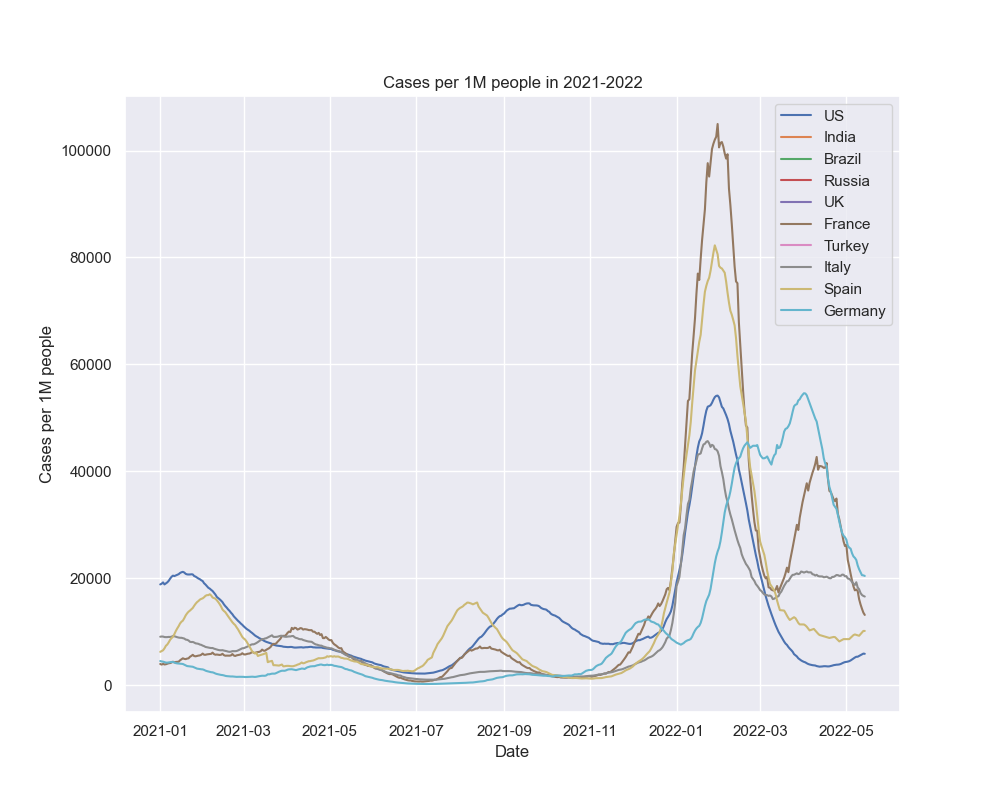
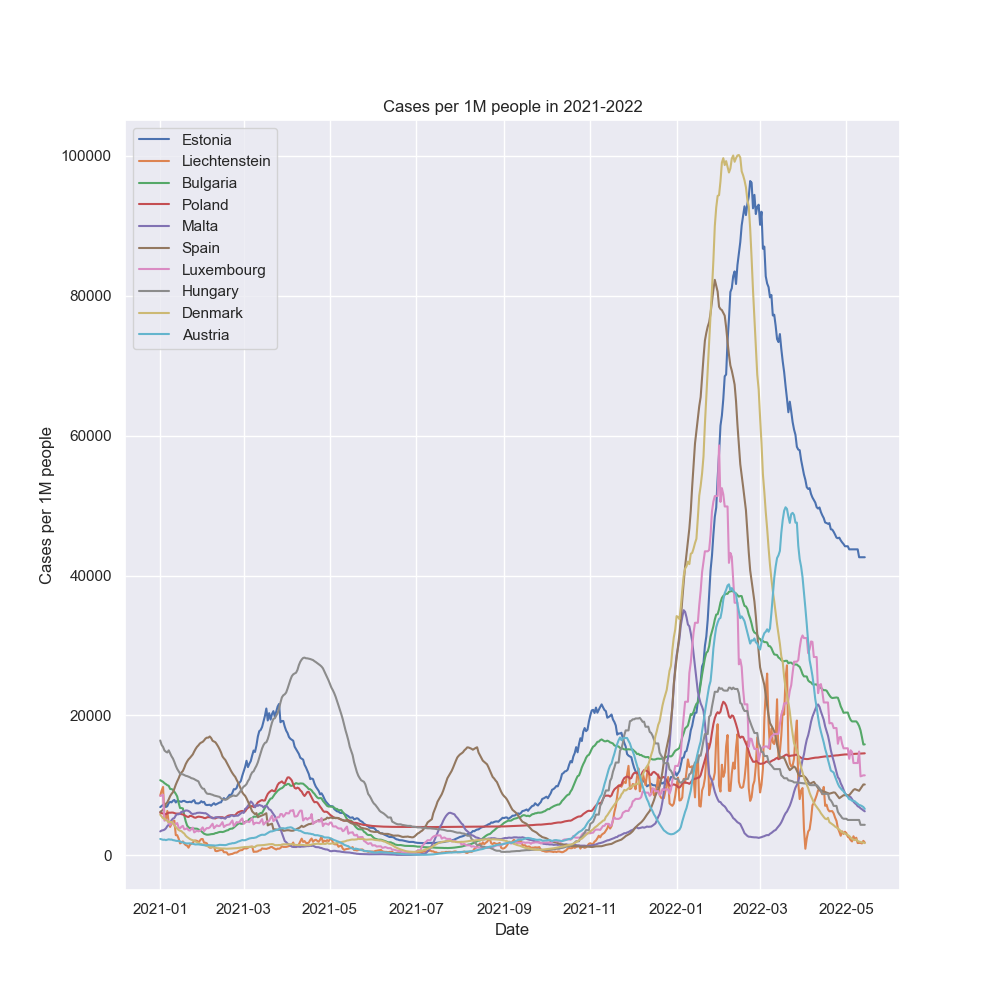
finished vaccine

diff --git a/Midterm_Project/Vaccine3.py b/Midterm_Project/Vaccine3.py
@@ -30,13 +30,9 @@ max_countries_two = mv['location'].unique()
 max_countries_three = cases['Country'].unique()
 
 
-check = cases[cases['Country'].isin(max_countries_one) & cases['Country'].isin(max_countries_two)]
-temp = check.groupby('Country')['Active_cases'].sum()
-max_countries_four = check[(check['Active_cases'] != '') & (check['Active_cases'].notna())]
-
 #Group By Total Vaccinations
 
-#Filter countries
+#filter total vaccinations
 vaccination_unfiltered = mv[mv['location'].isin(max_countries_one) & mv['location'].isin(max_countries_three)]
 
 valid_country = vaccination_unfiltered['location'].unique()
@@ -44,23 +40,34 @@ valid_country = vaccination_unfiltered['location'].unique()
 #Store everything in a data set
 countries = vaccination_unfiltered.groupby('location')['total_vaccinations'].sum().reset_index().sort_values(by='location').reset_index(drop=True)
 
+check_two = mv[mv['location'].isin(max_countries_one) & mv['location'].isin(max_countries_three)]
+check_three = (check_two.groupby('location')['total_vaccinations'].sum())
+check_four = check_three.astype('float')
+max_countries_four = check_four[(check_four > 0.0)]
 
-#Group By Total population
+countries['total_vaccinations'] = max_countries_four
 
-#Filter population
-population_unfiltered = wom[wom['Country/Region'].isin(valid_country)]
-
-#Store everything in a data set
-population_filtered = population_unfiltered.groupby('Country/Region')['Population'].sum().reset_index().sort_values(by='Country/Region').reset_index(drop=True)
-countries['Population'] = population_filtered['Population']
-
+print(countries)
 
 #Group by 2021-2022
 
 #filter cases
-max_countries_four = max_countries_four.copy()
-max_countries_four['Date'] = pd.to_datetime(max_countries_four['Date'])
-cases_filtered = max_countries_four[(max_countries_four['Date'] >= '2021-01-01') ]#& (cases['Country'].isin(max_countries_four))
+check = cases[cases['Country'].isin(max_countries_one) & cases['Country'].isin(max_countries_two)]
+max_countries_five = check[(check['Active_cases'] != '') & (check['Active_cases'].notna())]
+max_countries_five = max_countries_five.copy()
+max_countries_five['Date'] = pd.to_datetime(max_countries_five['Date'])
+cases_filtered = max_countries_five[(max_countries_five['Date'] >= '2021-01-01') ]
+
+print(cases_filtered)
+
+#Group By Total population
+
+#Filter population
+population_unfiltered = wom[wom['Country/Region'].isin(max_countries_four) & wom['Country/Region'].isin(max_countries_five)]
+population_filtered = population_unfiltered.groupby('Country/Region')['Population'].sum().reset_index().sort_values(by='Country/Region').reset_index(drop=True)
+countries['Population'] = population_filtered['Population']
+
+print(countries)
 
 #Population with cases/1M in a new dataframe
 
@@ -70,14 +77,11 @@ merged['Cases/1M'] = (merged['Active_cases'] / merged['Population']) * 1000000
 
 #Outputs
 
-countries_to_plot = np.random.choice(merged['Country'].unique(), 10, replace=False)
+countries_to_plot = [np.random.choice(merged['Country'], 10)]
 
-plt.figure(figsize=(10,10))
+plt.figure(figsize=(10,8))
 for country in countries_to_plot:
     country_data = merged[merged['Country'] == country]
-    country_to_output = country_data.groupby('Country')['total_vaccinations'].sum()
-    for i in country_to_output:
-        print(f"{country_data['Country'].unique()}: {i}")
     plt.plot(country_data['Date'], country_data['Cases/1M'], label=country)
 
 plt.xlabel('Date')
@@ -88,11 +92,11 @@ plt.savefig('Cases_per_1M_2021_2022.png')
 plt.show()
 
 
-plt.figure(figsize=(10,10))
-temp = merged[merged['Country'].isin(countries_to_plot)]
-total_vaccinations_by_country = temp.groupby('Country')['total_vaccinations'].sum().reset_index().sort_values(by='total_vaccinations', ascending=False).reset_index(drop=True)
+plt.figure(figsize=(10,8))
+total_vaccinations_by_country = merged.groupby('Country')['total_vaccinations'].max()
+total_vaccinations_by_country = total_vaccinations_by_country.reindex(countries_to_plot)
 
-plt.bar(total_vaccinations_by_country['Country'], total_vaccinations_by_country['total_vaccinations'])
+plt.bar(total_vaccinations_by_country.index, total_vaccinations_by_country.values)
 plt.xlabel('Country')
 plt.ylabel('Total Vaccinations')
 plt.title('Total Vaccinations by Country')
